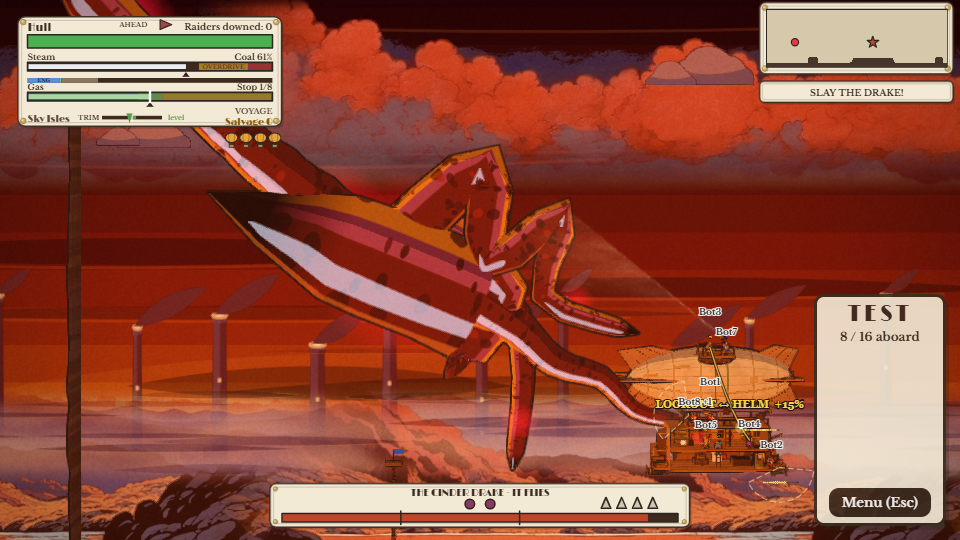
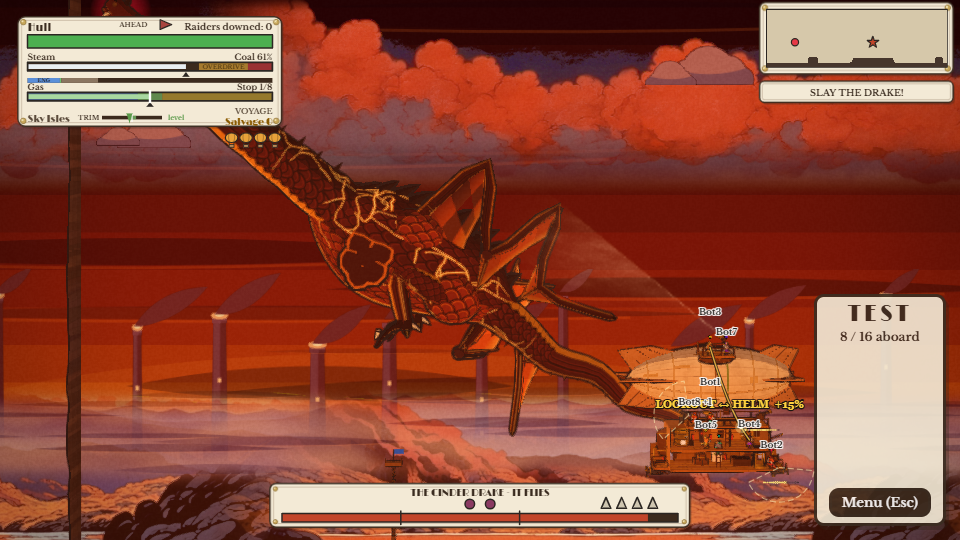
The Cinder Drake in 3D: sculpted torso with scale skin and ember cracks, horned head with a hinged jaw and stepped throat glow, wing membranes with rips, breath cone and light, perch talons, lava spouts, crash and death effects, torn wing as a Rapier body; drake gate in creature3d-check; fixture re-

Changed region(s): [[0.1875, 0.237, 0.7188, 0.8889], [0.0625, 0.0, 0.1875, 0.0296], [0.7188, 0.8, 0.75, 0.8296]]

diff --git a/public/config.js b/public/config.js
@@ -2487,7 +2487,7 @@ export const config = {
       FOAM: { COLOR: '#f4fbfa', BAND: 0.55, ALPHA: 0.92 }, // the foam ring where something crosses the sea line: the band's share of the radius
       SHADOW: { COLOR: '#0a1830', ALPHA: 0.62, DEPTH: 0.9 }, // the breach shadow on the water: colour, its darkest alpha, its depth (z) as a share of its width
     },
-    // THE CINDER DRAKE (view3d/creatureDrake.js, drakeModel.js, drakeWings.js, drakeFx.js, drakePaint.js; 3D.md section 22): the same keys as the Kraken's, in charred red-brown and ember orange, and the rest of its look.
+    // THE CINDER DRAKE (view3d/creatureDrake.js, drakeModel.js, drakeWings.js, drakeFx.js, drakePaint.js; 3D.md section 24): the same keys as the Kraken's, in charred red-brown and ember orange, and the rest of its look.
     DRAKE: {
       skin: '#5c2220', skinDark: '#2c1010', belly: '#d99a46', spot: '#2c1010', spotLight: '#8a3828', fin: '#b9482a', bone: '#efe2c0', char: '#2f2a2e', eye: '#ffd23f', iris: '#fff0a0', pupil: '#17101e',
       mouthIn: '#c0381c', lips: '#a8402c', flesh: '#b8574c', heart: '#ff4a4a', dead: '#4a3a3a', exhausted: '#a08a8a',

diff --git a/public/modules/view3d/creature.js b/public/modules/view3d/creature.js
@@ -27,7 +27,7 @@ const FLASH = [2.4, 2.2, 2.2], DIM = [0.66, 0.72, 0.95], LIT = [1.28, 1.22, 1.2]
 // The kinds: what is special about each creature. A new creature adds one entry (palette, build -> the geometry, which part kinds are its limbs).
 export const KINDS = {
   kraken: { id: 'kraken', palette: () => config.CREATURE3D.KRAKEN, build: buildKraken, limbKind: 'tentacle' },
-  // The Cinder Drake (3D.md section 22): its own skins (scales + ember cracks), tube opts (spines on the neck and tail), the extension that places its head, jaw, wings, legs and fire (creatureDrake.js), and
+  // The Cinder Drake (3D.md section 24): its own skins (scales + ember cracks), tube opts (spines on the neck and tail), the extension that places its head, jaw, wings, legs and fire (creatureDrake.js), and
   // `desperate`: its phase 3 is a rage, not tiredness (no pale tired tint)
   drake: { id: 'drake', palette: () => config.CREATURE3D.DRAKE, build: buildDrake, limbKind: 'wing', limbsOf: drakeLimbs, skins: drakeSkins, tubeOpts: drakeTubeOpts, extend: extendDrake, desperate: true, sheen: 0 },
 };

diff --git a/public/modules/view3d/drakePaint.js b/public/modules/view3d/drakePaint.js
@@ -1,4 +1,4 @@
-// THE CINDER DRAKE'S SKIN (3D.md section 22): the paintings the dragon is wrapped in, made once with Canvas 2D (a seeded generator, so it is always the same dragon). No files, nothing from the internet.
+// THE CINDER DRAKE'S SKIN (3D.md section 24): the paintings the dragon is wrapped in, made once with Canvas 2D (a seeded generator, so it is always the same dragon). No files, nothing from the internet.
 //   paintDrakeAtlas(P)  the BODY atlas, the same layout as the Kraken's head atlas (creatureKit.js ATLAS): the top 640 rows are the torso (x = round the body, 0 = the belly's middle line, 0.25 = the near flank,
 //                       0.5 = the back; y = along it, rear to chest), the lower left is a sheet of armour plates (the breast scales), the lower right is the plain white swatch the flat pieces point at.
 //   paintDrakeLimb(P)   the skin of a tube (neck, tail, wing bones, legs): x = round it (0 and 1 = the belly side), y = along it (stretched 2:1: the tube kit maps one unit of v to one circumference).

diff --git a/public/modules/view3d/creatureDrake.js b/public/modules/view3d/creatureDrake.js
@@ -1,4 +1,4 @@
-// THE CINDER DRAKE IN 3D (3D.md section 22). creature.js is the generic creature view and KINDS.drake plugs this in; the models are drakeModel.js, the wing skins drakeWings.js, the paintings drakePaint.js
+// THE CINDER DRAKE IN 3D (3D.md section 24). creature.js is the generic creature view and KINDS.drake plugs this in; the models are drakeModel.js, the wing skins drakeWings.js, the paintings drakePaint.js
 // and the fire drakeFx.js. What this file does is put the model where the SIMULATION says its parts are, every frame, and never move a thing by itself (no sine of time, no wobble: the wing beats, the
 // neck, the pitch, the open jaw and the throat's glow are the simulation's stepped numbers; the flames swap between four fixed frames at 8 a second):
 //   - the TORSO is the generic head record (a sculpted lathe): placed at the sim's body position, mirrored by `cr.f`, pitched by `cr.rot`, at a depth that depends on what it is doing (flying: behind the

diff --git a/public/modules/view3d/drakeModel.js b/public/modules/view3d/drakeModel.js
@@ -1,4 +1,4 @@
-// THE CINDER DRAKE'S BODY IN 3D (3D.md section 22): the models. Everything here is built once, in the dragon's own frame facing +x (x forward, y UP, z toward the viewer; sizes are the sim's game pixels, so the
+// THE CINDER DRAKE'S BODY IN 3D (3D.md section 24): the models. Everything here is built once, in the dragon's own frame facing +x (x forward, y UP, z toward the viewer; sizes are the sim's game pixels, so the
 // picture and the hit capsules agree) and never moves by itself:
 //   buildTorso(cr, P)   the TORSO: a deep-chested, sculpted lathe (smooth, with a painted scale skin and glowing ember cracks), a ridge of back spines, the shoulder and haunch bulges, the BREAST PLATES (a dynamic
 //                       piece the boarding hack opens) and the HEART behind them. It returns the same record as the Kraken's body (creatureKraken.js buildKraken) so the generic creature view runs it.

diff --git a/public/modules/view3d/drakeFx.js b/public/modules/view3d/drakeFx.js
@@ -1,4 +1,4 @@
-// THE CINDER DRAKE'S FIRE (3D.md section 22): everything that burns, glows or splashes round the dragon, apart from its own body.
+// THE CINDER DRAKE'S FIRE (3D.md section 24): everything that burns, glows or splashes round the dragon, apart from its own body.
 //   createFireVolumes(parent, P)  ONE additive mesh that draws several FIRE VOLUMES: each is four nested cones (red, orange, yellow, a white-hot core) of lumpy tongues whose shape is one of four fixed
 //                                 frames swapped at 8 a second (no noise, no sine of time), faded along their length. The breath is one volume, each erupting lava spout another.
 //   createDrakeFx(opts)           the per-frame events: the BREATH (the cone from cr.flame, cut short where it meets a hull as the simulation's own breathBurn does; layered fire sprites, sparks and embers

diff --git a/public/modules/view3d/drakeWings.js b/public/modules/view3d/drakeWings.js
@@ -1,4 +1,4 @@
-// THE CINDER DRAKE'S WING MEMBRANES (3D.md section 22): flat-shaded sheets stretched between the wing's bones. The simulation's wing is a chain of five segments (the arm and the hand); the bones are drawn as
+// THE CINDER DRAKE'S WING MEMBRANES (3D.md section 24): flat-shaded sheets stretched between the wing's bones. The simulation's wing is a chain of five segments (the arm and the hand); the bones are drawn as
 // tubes by the tube kit and THIS file draws the skin between them: one panel for each segment, from the leading bone (J: the joints of the chain) to a trailing edge (E: a point behind every joint, where a
 // finger bone ends), each panel a small grid of cells so that
 //   - the trailing edge scallops in between the fingers (the middle of every panel is pulled in),

diff --git a/3D.md b/3D.md
@@ -569,5 +569,27 @@ The perf governor then starts at that level (High = 3, Medium = 1) and never cli
 
 **Gates.** `--check-botsim` byte-identical (9/9), `--lint`, `--check-3d-lint`, `weather3d-check`, `light3d-check --quick`, `--check-3d` (fixtures re-captured with `--snapshot-3d --force`, then "all clear"), 0 console errors with `?look=nostrips,noskyart,noclouds` too.
 
+## 24. The Cinder Drake in 3D (built)
+**Files** (`public/modules/view3d/`): `creatureDrake.js` (the Drake's extension of the generic creature view: it places every piece from the sim's parts, each frame), `drakeModel.js` (the torso and the rigid pieces: head, jaw, tail club, talons, wing thumbs), `drakeWings.js` (the membrane mesh), `drakePaint.js` (the scale skins and the ember-crack glow maps, painted with Canvas 2D), `drakeFx.js` (the breath volume, spouts, crash, perch, death). Small edits: `creature.js` (the `KINDS.drake` entry: `skins`, `tubeOpts`, `extend`, `desperate`, `sheen`; the rig has `ext`; a torn wing's chunk may carry an extra skin mesh; the extension's markers join the grip rings), `creatureKit.js` (`RigidSet`: rigid pieces placed by a whole matrix), `creatureTube.js` (the spike studs: a stud geometry, size, spacing and which limbs get them), `damageView.js` (`mark(ship, x, y)`: a scorch the hit log does not hold), `glows3d.js` (the Drake's big parts get no red halo), `index.js` (hands the damage view to the creature view), `config.CREATURE3D.DRAKE` (colours, `HEAT`, `FLAME`, `LIGHT`). No simulation file is touched (`--check-botsim` byte-identical 9/9, `--lint`, `--check-3d-lint`, `--check-physics`, `--check-creature` and `--check-3d` all clear; the drake fixture was re-captured with `--snapshot-3d --force --scene drake`). `bag.js` is untouched.
+
+**What it looks like.**
+- BODY: a sculpted lathe, deep-chested, with a ridge of charcoal spines. The skin is overlapping scale shields (dark charcoal-red, darker down the back), a tan belly of plates, and glowing ember CRACKS (an emissive map: orange with a yellow heart; `HEAT` scales it in stepped eighths: brighter in the breath and in phase 3, dimmer as it dies). Toon steps and the A1 ink; no wet glint (`sheen: 0`). The BREAST PLATES are six armoured shields (dark, with a copper rim) over the heart's place; the boarding hack lifts them in 5 stepped poses (`dk.scales.prog`), and the heart (a pink ring and a glowing heart) shows when the sim exposes it.
+- HEAD: angular and asymmetric: a faceted skull, a long snout, two big back-swept horns (the far one broken short), brow and cheek horns, an ear frill of three flat orange fins, a nose horn, fangs; slanted glowing yellow eyes; the cheek vents, the throat and the roof of the mouth glow (glow channel 3). The lower JAW is hinged and follows the sim's mouth openness in eighths. The THROAT GLOW rises in five stepped levels through the 1.6 s wind-up and is the choke target when the mouth is open.
+- NECK and TAIL: continuous tapered tubes along the sim's segments, with a ridge of spine studs, and a spiked CLUB (a bone mace with a blade) on the tail.
+- WINGS: for each sim wing, a thin bone tube along the five segments, four finger bones from the joints to the trailing edge, and a MEMBRANE between them (`drakeWings.js`): a grid of cells, flat-shaded and tilted alternately from panel to panel, dark ember at the bone to pale orange at a scalloped edge with a dark edge band. The flaps are only the sim's stepped poses. Damage opens ragged HOLES (nine fixed spots that open at their own damage share and grow) with charred rims and a ragged trailing edge. A torn wing is the stump of the sim's chain with a jagged cut in raw flesh; the part that comes off becomes a Rapier body (bones + its own skin mesh) through `destruction.addExternal`, with fire and smoke trailing it. A thumb claw sits at each wrist.
+- LEGS: two hind legs by a two-bone IK: tucked in flight, planted on the shelf when it crawls, planted on the gasbag's skin when it perches (a point on the bag's own surface, from the ship pose). The bag SAGS a little under it (`sagBag` in creatureDrake.js: a 6% squash of the bag node in three steps after it lands; the ship model resets it every frame; this is the separate hook, bag.js is not touched).
+- BREATH: a fire volume of four nested cones (red, orange, yellow, white-hot) of lumpy tongues in four fixed frames swapped at 8 a second, cut short where it meets a hull (the sim's own march), plus WP4 fire sprites, embers and smoke along it, a burst and sparks where it bites the hull, scorch marks on the hull (through `damage.mark`, at most 7 a breath) and a warm point light on the ship (`LIGHT`: x1 High, x0.6 Medium, none on Low). The wind-up throws embers and swelling flashes from the throat.
+- LAVA SPOUTS: a bubbling patch (fire balls and a ring) while it warns, a column of fire (a fire volume, sprites and embers) while it erupts. A tow into one adds a big fire burst and an explosion at the body (`cr.stats.spouts`).
+- CRASH / CRAWL: an explosion, dust and embers at the landing, and a ring; while crawling it smoulders and the stump of the torn wing drags dust and sparks. PERCH: a ring of dust when it lands; the body takes the bag's depth. DEATH: explosions and an ember splash, embers while it sinks (slower in the slow-motion finale), and when it passes the lava line the big splash: three explosions, fire, 160 embers, two rings.
+- Lit / dim / hit flash are the generic tints (the Drake's phase 3 is a rage, not tiredness: `desperate`); the eyes always glow, more when lit. The harpoon rope ends at the body's own depth. The swoop ring, the lunge ring and the perch's timer ring are the generic ring markers.
+
+**How the pieces are made.** `loft(rings)` builds a flat-faced solid from rings of points (the winding is checked by the signed volume, so it is never inside out); `horn()` is a curved spike / horn / claw. The torso is a Catmull-Rom lathe (`STATIONS`), smooth, and the breast plates follow its skin. The still body is one `Mesher` geometry with the generic ink; the rigid pieces (head, jaw, club, feet, thumbs) are one more, placed by `RigidSet.place(name, matrix)` only when the matrix changes. Neck, tail, wing arms, finger bones and legs are 14 limbs of ONE tube mesh. The wing skin is one mesh.
+
+**Measured** (High, headless Chrome on the RTX 5070 Ti, 1280x720): the Drake draws **9 meshes** (torso + ink, pieces + ink, tubes + ink, studs, wing skin, fire volume; +1 for the ring markers, +2 for a rope, +2 for each torn-off wing) and about **39k triangles** with ink (Low: 30k); its own JS is 0.5-0.8 ms a frame. The particles stay inside the WP4 caps (every burst goes through `P.burst`, which stops when the pool is full; the rates follow the tier's `RATE`). `--check-3d`: flight 71 calls, Kraken lair 67.
+
+**Gate.** `node tools/creature3d-check.mjs --quick` (section 4; skip with `--no-drake`): arrive, breath (the throat glow rises, the jaw opens, the cone is drawn, the light), swoop (the ring), perch (the talons placed, the bag sags, the timer ring), a spout erupts, a wing tears (a Rapier body with its skin), crash and crawl, a harpoon line, death and the view hiding, then the Low tier; 0 errors, at most 12 meshes and 60k triangles. Screenshots (outside the repo): `3d-screenshots/drake3d_*.png`.
+
+**Known gaps.** The talons grip the bag's skin but the bag's dent is a squash of the whole envelope (a local dent needs the A4 bag). The wing membranes are cut by grid cells (a hole is a square-ish cell with a charred rim, not a smooth tear). The Drake falling into the lava is drawn in front of the lava sheet (the sheet is one flat plane); the splash and the sinking embers do the work. The finger bones are thin tubes; a dark band, not an ink shell, is the membrane's line. In a dark sky the body is dim unless a searchlight has it, as the Kraken is; the ember cracks, the eyes, the throat and the fire carry the picture.
+
 ## Next: the art-director review
 Fable reviewed the finished 3D build: see **[ART_REVIEW_3D.md](ART_REVIEW_3D.md)** for the top 10 gaps and packages A1-A9.

diff --git a/BOSSES.md b/BOSSES.md
@@ -280,7 +280,7 @@ One monster gets built all the way first: the Kraken. It is proved with bots, th
 - **LAIR:** `voyage.js markLairs` picks the creature by stop environment (`LAIR.BY_ENV`: sea -> Kraken, ember -> Drake); `maps.js buildDrakeLairMap` = lava below `LAIR.LAVA_BELOW`, a rock shelf and lava spouts. Dev flags: `host.html?creature=drake`, `botsim --creature drake`.
 - **REWARD:** triple salvage and the trophy "Drake-scale plating" (an armour part with `art:'drake'`, mass x `TROPHY.MASS_MUL`).
 - **BOTS** (`bots.js`): gunners with led aim, fire crew, a drive-off-perch job (helm shake), the bomb bay over a crawling mouth, flak priority on wings, helm steering over a lava spout when hooked.
-- **ART:** 2D in `creatureArt.js` (`drawDrake`); `view3d/creature.js` has a `drake` kind (tubes only) with `view3d/creatureDrake.js`. A proper 3D Drake model (wing membranes, scales, glowing throat) is still to do.
+- **ART:** 2D in `creatureArt.js` (`drawDrake`); 3D: the full model (scales and ember cracks, horned head with a hinged jaw and a stepped throat glow, wing membranes with rips, breath cone, perch talons, lava spouts, crash and death effects) is `view3d/creatureDrake.js` and friends: see 3D.md section 24.
 - **GATE:** `tools/creature-check.mjs` section D0-D11. Forced wins with 8 bots on Normal (seconds, seeds 1-3): choke 78/74/99, bombs 188/190/256, tow 184/163/165, board 29, flak 245/224/210, hp 123/175/241; Easy: 4 bots win (hp) in about 200 s, 16 bots in about 115 s. Voyagesim (24 seeds, Normal) classic 14/24 (was 16/24), Sparrow 7/24 (was 6/24); the golden bands still hold.
 
 
